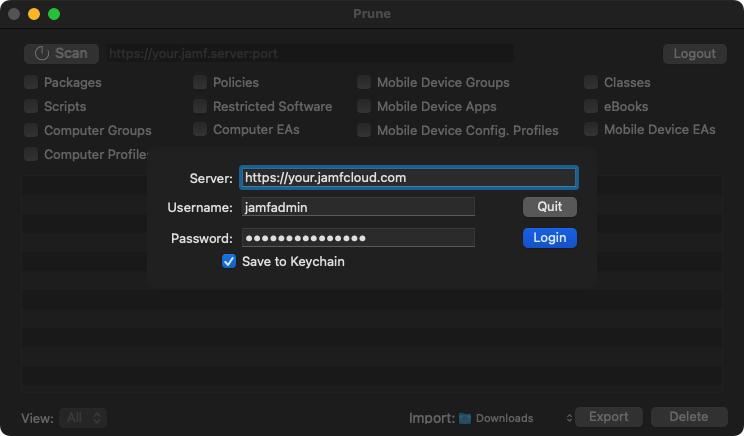
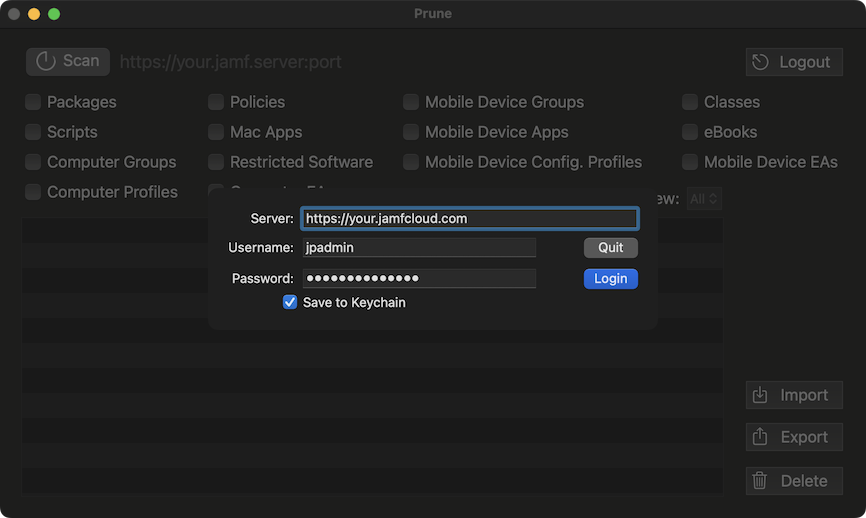
image updates

diff --git a/prune/ViewController.swift b/prune/ViewController.swift
@@ -2431,7 +2431,7 @@ class ViewController: NSViewController, ImportViewDelegate, SendingLoginInfoDele
             
             let exportedReport = "pruneReport_\(JamfProServer.source.fqdnFromUrl)_\(timeStamp).csv"
             let exportURL = getDownloadDirectory().appendingPathComponent(exportedReport)
-            
+//            print("masterObjectDict: \(masterObjectDict)")
             var selectedObjects = [String]()
             let buttonArray:[NSButton] = [packages_Button,scripts_Button,computerGroups_Button,computerProfiles_Button,policies_Button,restrictedSoftware_Button,computerEAs_Button,macApps_Button,mobileDeviceGroups_Button,mobileDeviceApps_Button,configurationProfiles_Button,classes_Button,ebooks_Button,mobileDeviceEAs_Button]
             for theButton in buttonArray {
@@ -2443,7 +2443,9 @@ class ViewController: NSViewController, ImportViewDelegate, SendingLoginInfoDele
             var unusedObjects = ""
             for (key, value) in masterObjectDict {
                 let dictOfObjects:[String:[String:String]] = value
-                if selectedObjects.firstIndex(of: key) != nil {
+                if selectedObjects.firstIndex(of: key.lowercased()) != nil {
+//                    print("export \(key)")
+                    WriteToLog().message(theString: "exporting \(key)")
                     for (theObject, objectInfo) in dictOfObjects {
                         if theObject == "policies" {
                             if objectInfo["used"] == "false" || objectInfo["enabled"] == "false" {

diff --git a/README.md b/README.md
@@ -5,17 +5,19 @@ As your Jamf server ages it often accumulates more and more unused items, such a
 
 ![alt text](./images/pruneApp.png "Prune")
 
-Once the list of unused items is generated you can edit it within the app.  If you see an object you wish to keep, say some policy, simply option+click the item in the list.  The item will be removed from the list, and hence not removed from the server.  Perhaps you'd like to review the item on the server before deleting, not a problem, just double click the item and you'll be taken to it on the Jamf server (may need to authenticate first).
+Once the list of unused items is generated you can edit it within the app.  If you see an object you wish to keep, say some policy, simply option-click the item in the list.  The item will be removed from the list, and hence not removed from the server.  Perhaps you'd like to review the item on the server before deleting, not a problem, just double click the item and you'll be taken to it on the Jamf server (may need to authenticate first).
 
 ![alt text](./images/edit.png "modify/review")
 
 ### Usage:
-* Enter the server URL you wish to query along with valid credentials.  To simply generate a list you can use an auditor account.  To remove items an account with delete permissions is required.
-* Select the item(s) you'd like to scan.  You can option-click to select/de-select all the categories; packages, scripts, computer groups...
+* Enter the server URL you wish to query along with valid credentials.  To simply generate a list you can use an auditor account.  To remove items an account with delete permissions is also required.
+* Select the item(s) you'd like to scan.  You can option-click to select/de-select all the object types; packages, scripts, computer groups...
 * Click Scan.
 * Once the processing is complete review/edit the list.
 * Click Delete if you wish to delete the listed items from the server.
-* Click Export if you wish to save (to your Downloads folder) the lists of objects to remove for review/editing later.  These lists can then be imported into the application.
+* To delete one specific object type after scanning multiple object types change the View option to the desired object type then click Delete.
+* Click Export if you wish to save (to your Downloads folder) the lists of objects, one file per object type, to remove for review/editing later.  These lists can then be imported into the application by either clicking the import button or dragging the file onto the button.
+* Option-click Export to export all items to a single CSV in your downloads folder.
  
 <br><hr><br>
 ### Usage Calculations<br>
@@ -45,16 +47,12 @@ Once the list of unused items is generated you can edit it within the app.  If y
             <td>Check scope, computer prestages</td>
         </tr>
         <tr>
-            <td>eBooks</td>
-            <td>Check scope</td>
-        </tr>
-        <tr>
             <td>Policies</td>
             <td>Check scope</td>
         </tr>
         <tr>
             <td>Mac Apps</td>
-            <td>Check scope.  <b>Important:</b> enabled/disabled state for Mac Apps is not available via the API.</td>
+            <td>Check scope</td>
         </tr>
         <tr>
             <td>Restricted Software</td>
@@ -63,6 +61,10 @@ Once the list of unused items is generated you can edit it within the app.  If y
         <tr>
             <td>Computer Extension Attributes</td>
             <td>Check scope for computer groups, advanced searches, enabled state</td>
+        </tr>
+        <tr>
+            <td>eBooks</td>
+            <td>Check scope</td>
         </tr>
         <tr>
             <td>Mobile Device Groups</td>
@@ -87,14 +89,17 @@ Once the list of unused items is generated you can edit it within the app.  If y
 
 ### Important:
 * This application deletes stuff, <b>use with caution!</b>  It is recommended you have a valid backup before deleting any objects.  You could either perform a database backup (if on prem) or use [Jamf Migrator](https://github.com/jamf/JamfMigrator) and export the (full) XML of all objects, or do both.
-* Policies scoped only to users and/or user groups will show as unused due to an issue with the API (it doesn't list the users or user groups).
-* Bookmarks are not accessible via the API.  As a result groups that are only used to scope bookmarks will show as unused.
+* **Policies** scoped only to users and/or user groups will show as unused due to an issue with the API (it doesn't list the users or user groups).
+* **Mac App** enabled/disabled state is not available via the API and thus not used to determine usage.
+* **Bookmarks** are not accessible via the API.  As a result groups that are only used to scope bookmarks will show as unused.
 
 Logging information is written to: ```~/Library/Containers/com.jamf.pse.prune/Data/Library/Logs/Prune.log```
 
 <br><hr><br>
 
 ### History:
+2023-03-21 - v3.0.0: Updated UI.  Add ability to export results to a CSV (option-Export).
+
 2023-03-08 - v2.4.0: Add scanning of Mac Apps.
 
 2022-11-18 - v2.3.3: Fix issue where extension attributes used as creteria in smart groups were listed as unused.
